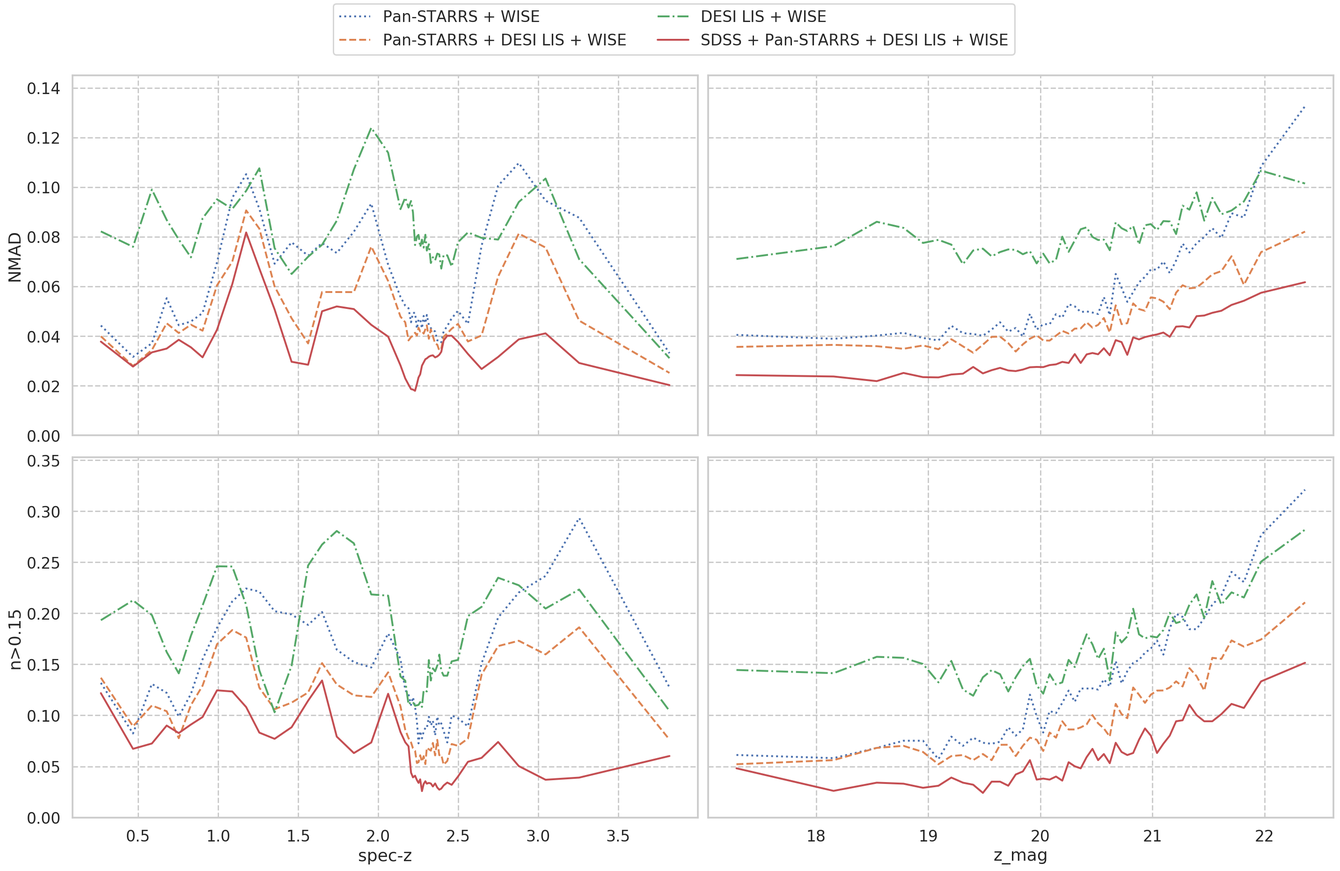
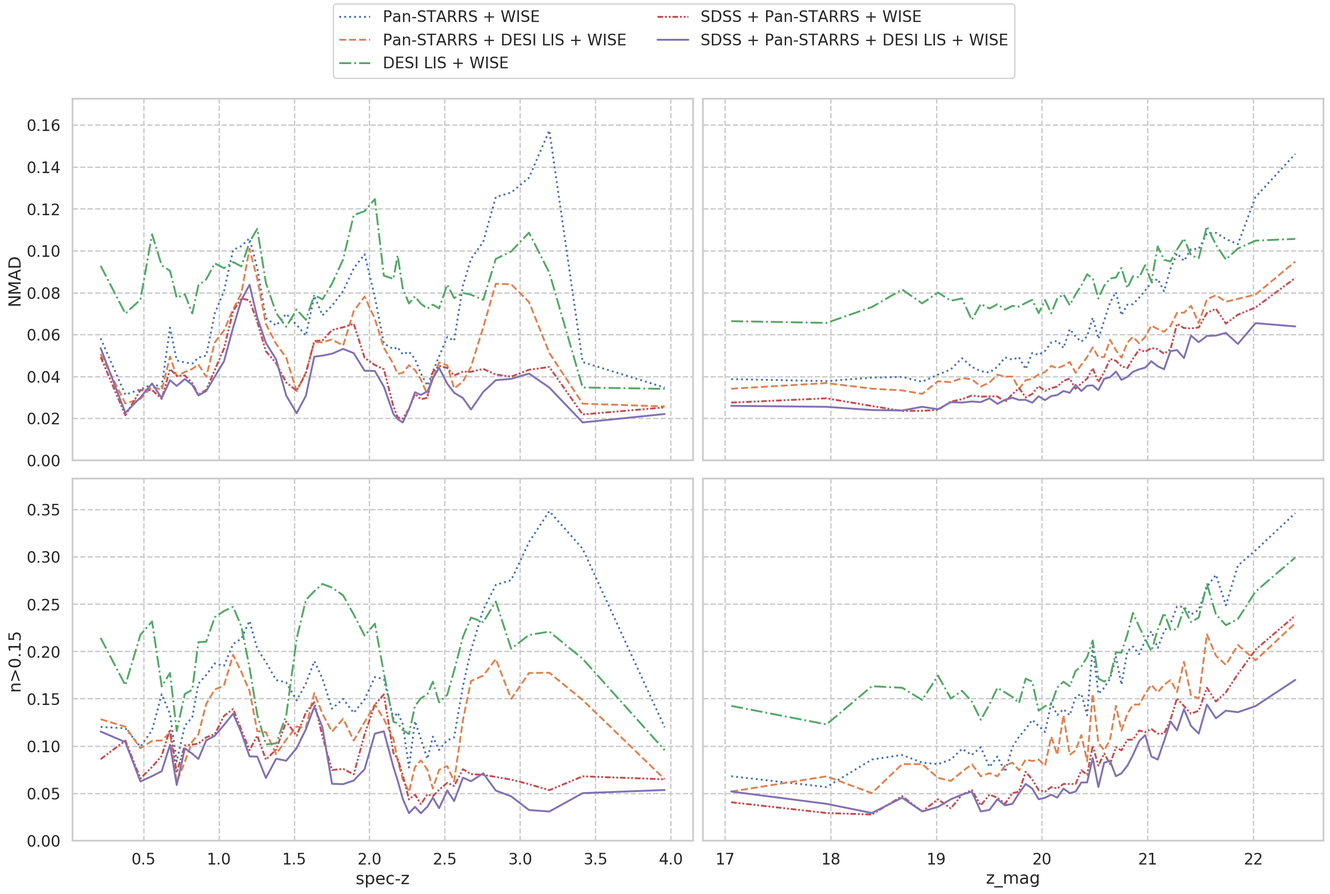
Update charts

diff --git a/main.tex b/main.tex
@@ -384,13 +384,6 @@ At the prediction stage we take into account uncertainties in photometric fluxes
 
 \subsection{Результаты на кросс-валидации (галактики)}
 
-\begin{figure*}
-    \centering
-    \includegraphics[width=0.9\linewidth]{images/scatterplots-cv2-gal.png}
-    \caption{Скаттерплот галактик на кросс-валидации}
-    \label{fig:my_label}
-\end{figure*}
-
 % \begin{figure*}
 %     \centering
 %     \includegraphics[width=0.9\linewidth]{images/metrics-gal_spec-z.png}
@@ -426,7 +419,7 @@ At the prediction stage we take into account uncertainties in photometric fluxes
 \begin{figure*}
     \centering
     \includegraphics[width=0.9\linewidth]{images/scatterplots-cv2-qso.png}
-    \caption{Скаттерплот квазаров на кросс-валидации}
+    \caption{Скаттерплот на кросс-валидации}
     \label{fig:my_label}
 \end{figure*}
 
@@ -492,23 +485,31 @@ At the prediction stage we take into account uncertainties in photometric fluxes
 \begin{figure*}
     \centering
     \includegraphics[width=0.9\linewidth]{images/scatterplots-stripe82x.png}
-    \caption{Диаграммы рассеяния прогнозов четырех моделей Photo-z (Pan-STARRS + WISE слева сверху, Pan-STARRS + DESI LIS + WISE справа сверху, DESI LIS + WISE слева посередине и SDSS + PanSTARRS + DESI LIS + WISE справа посередине, шаблонная модель (Ananna, 2017) слева снизу и нейросетевая модель (Brescia, 2019) справа снизу) на тестовой выборке рентгеновских объектов Stripe82X. По оси абсцисс -- значение spec-z, по оси ординат -- значение прогноза photo-z. Цветом и размером кружка показана мера достоверности прогноза zConf (PDZbest для Ananna).}
+    \caption{Диаграммы рассеяния прогнозов четырех моделей Photo-z (Pan-STARRS + WISE слева сверху, Pan-STARRS + DESI LIS + WISE справа сверху, DESI LIS + WISE слева снизу и SDSS + PanSTARRS + DESI LIS + WISE справа снизу) на тестовой выборке рентгеновских объектов Stripe82X. По оси абсцисс -- значение spec-z, по оси ординат -- значение прогноза photo-z. Цветом и размером кружка показана мера достоверности прогноза zConf.}
+    \label{fig:s82x}
+\end{figure*}
+
+\begin{figure*}
+    \centering
+    \includegraphics[width=0.9\linewidth]{images/scatterplots-stripe82x-sota.png}
+    \caption{Диаграммы рассеяния прогнозов для 35 модели + SOTA.}
     \label{fig:s82x}
 \end{figure*}
 
 \begin{table*}
 	\begin{tabular}{llllllllll}
             \hline
-            {} & \multicolumn{3}{l}{$All$ (2403 objects)} & \multicolumn{3}{l}{$z_{spec} < 0.5$ (570 objects)} & \multicolumn{3}{l}{$0.5 \leq z_{spec} < 1$ (635 objects)} \\
-            {} &               $NMAD$ &        $n>0.15$ &  $C_{68} - 0.68$ &                         $NMAD$ &        $n>0.15$ & $C_{68} - 0.68$ &                                $NMAD$ &        $n>0.15$ &  $C_{68} - 0.68$ \\
-            Model          &                      &                 &                  &                                &                 &                 &                                       &                 &                  \\
+            {} & \multicolumn{3}{l}{$All$ (2361 objects)} & \multicolumn{3}{l}{$z_{spec} < 0.5$ (563 objects)} & \multicolumn{3}{l}{$0.5 \leq z_{spec} < 1$ (629 objects)} \\
+            {} &               $NMAD$ &        $n>0.15$ & $C_{68} - 0.68$ &                         $NMAD$ &       $n>0.15$ &  $C_{68} - 0.68$ &                                $NMAD$ &        $n>0.15$ & $C_{68} - 0.68$ \\
+            Model          &                      &                 &                 &                                &                &                  &                                       &                 &                 \\
             \hline
-            PW             &                0.057 &           0.149 &            0.042 &                          0.037 &           0.091 &  \textbf{0.022} &                                 0.054 &           0.145 &             0.06 \\
-            PDW            &                0.046 &           0.112 &            0.076 &                          0.031 &           0.086 &           0.041 &                                 0.046 &           0.134 &            0.073 \\
-            DW             &                0.073 &           0.177 &  \textbf{-0.008} &                          0.047 &           0.112 &           0.032 &                                 0.084 &           0.206 &  \textbf{-0.025} \\
-            SPDW           &       \textbf{0.034} &  \textbf{0.089} &            0.104 &                  \textbf{0.03} &  \textbf{0.084} &           0.062 &                        \textbf{0.038} &  \textbf{0.106} &            0.122 \\
-            Template Model &                0.066 &           0.177 &           -0.342 &                          0.075 &           0.114 &          -0.499 &                                 0.062 &           0.217 &           -0.289 \\
-            NN Model       &                0.066 &            0.16 &           -0.258 &                          0.073 &           0.116 &          -0.396 &                                 0.065 &           0.203 &           -0.193 \\
+            PW             &                0.056 &           0.148 &  \textbf{0.001} &                          0.037 &          0.083 &  \textbf{-0.017} &                                 0.053 &           0.145 &   \textbf{0.02} \\
+            PDW            &                0.045 &           0.109 &           0.077 &                          0.031 &          0.083 &            0.045 &                                 0.046 &           0.129 &           0.075 \\
+            DW             &                0.073 &           0.174 &          -0.007 &                          0.046 &           0.11 &            0.034 &                                 0.084 &           0.202 &          -0.025 \\
+            SPW            &                 0.04 &           0.105 &            0.089 &                          0.032 &          0.083 &           0.043 &                                 0.043 &           0.111 &            0.109 \\
+            SPDW           &       \textbf{0.034} &  \textbf{0.089} &           0.105 &                 \textbf{0.029} &  \textbf{0.08} &            0.068 &                        \textbf{0.038} &  \textbf{0.103} &           0.123 \\
+            Template Model &                0.065 &           0.175 &          -0.343 &                          0.075 &          0.112 &           -0.499 &                                 0.061 &           0.215 &          -0.287 \\
+            NN Model       &                0.066 &           0.158 &          -0.259 &                          0.072 &          0.114 &           -0.396 &                                 0.064 &           0.199 &          -0.192 \\
             \hline
             \end{tabular}
             \caption{Точность моделей в зависимости от красного смещения (spec-z) на выборке Stripe82X для моделей Pan-STARRS + WISE (PW), Pan-STARRS + DESI LIS + WISE (PDW), DESI LIS + WISE (DW), SDSS + Pan-STARRS + DESI LIS + WISE (SPDW), шаблонной модели Ananna \ref{} (Template Model) и нейросетевой модели Brescia \ref{} (NN Model). Для каждого интервала даны метрики $NMAD$ \eqref{eq:nmad}, доля катастрофических выбросов $n_{.0.15}$ \eqref{eq:n015} и калибровка 68-процентных доверительных интервалов $C_{68} - 0.68$ \eqref{eq:c68}.}
@@ -517,16 +518,17 @@ At the prediction stage we take into account uncertainties in photometric fluxes
 \begin{table*}
 	\begin{tabular}{llllllllll}
             \hline
-            {} & \multicolumn{3}{l}{$1 \leq z_{spec} < 1.5$ (514 objects)} & \multicolumn{3}{l}{$1.5 \leq z_{spec} < 2$ (369 objects)} & \multicolumn{3}{l}{$2 \leq z_{spec}$ (315 objects)} \\
-            {} &                                $NMAD$ &        $n>0.15$ & $C_{68} - 0.68$ &                                $NMAD$ &        $n>0.15$ &  $C_{68} - 0.68$ &                          $NMAD$ &        $n>0.15$ &  $C_{68} - 0.68$ \\
-            Model          &                                       &                 &                 &                                       &                 &                  &                                 &                 &                  \\
+            {} & \multicolumn{3}{l}{$1 \leq z_{spec} < 1.5$ (507 objects)} & \multicolumn{3}{l}{$1.5 \leq z_{spec} < 2$ (363 objects)} & \multicolumn{3}{l}{$2 \leq z_{spec}$ (299 objects)} \\
+            {} &                                $NMAD$ &        $n>0.15$ &  $C_{68} - 0.68$ &                                $NMAD$ &        $n>0.15$ & $C_{68} - 0.68$ &                          $NMAD$ &        $n>0.15$ &  $C_{68} - 0.68$ \\
+            Model          &                                       &                 &                  &                                       &                 &                 &                                 &                 &                  \\
             \hline
-            PW             &                                 0.081 &           0.187 &           0.034 &                                 0.082 &           0.163 &            0.057 &                           0.057 &           0.184 &            0.037 \\
-            PDW            &                                 0.061 &           0.105 &           0.073 &                                 0.042 &           0.103 &            0.128 &                           0.046 &           0.133 &            0.088 \\
-            DW             &                                 0.083 &            0.14 &  \textbf{0.001} &                                 0.076 &           0.255 &  \textbf{-0.032} &                           0.088 &           0.203 &  \textbf{-0.032} \\
-            SPDW           &                        \textbf{0.048} &  \textbf{0.088} &           0.122 &                        \textbf{0.031} &  \textbf{0.065} &            0.144 &                  \textbf{0.029} &  \textbf{0.098} &            0.072 \\
-            Template Model &                                  0.07 &           0.206 &          -0.285 &                                 0.075 &            0.22 &           -0.279 &                           0.045 &           0.111 &           -0.331 \\
-            NN Model       &                                 0.069 &           0.167 &          -0.207 &                                 0.067 &           0.182 &           -0.192 &                           0.047 &           0.114 &           -0.302 \\
+            PW             &                                 0.079 &           0.174 &            0.018 &                                 0.076 &            0.16 &  \textbf{0.028} &                            0.07 &           0.217 &           -0.068 \\
+            PDW            &                                 0.061 &           0.105 &            0.071 &                                  0.04 &           0.099 &            0.13 &                           0.045 &           0.137 &            0.086 \\
+            DW             &                                 0.082 &           0.138 &  \textbf{-0.001} &                                 0.075 &           0.251 &           -0.03 &                           0.088 &           0.201 &  \textbf{-0.024} \\
+            SPW            &                                 0.053 &           0.108 &            0.097 &                                  0.04 &           0.096 &           0.163 &                           0.039 &            0.14 &            0.029 \\
+            SPDW           &                        \textbf{0.048} &  \textbf{0.089} &            0.119 &                        \textbf{0.031} &  \textbf{0.066} &           0.141 &                  \textbf{0.027} &  \textbf{0.104} &            0.073 \\
+            Template Model &                                  0.07 &           0.205 &           -0.287 &                                 0.074 &           0.218 &          -0.286 &                           0.046 &           0.107 &           -0.332 \\
+            NN Model       &                                 0.069 &           0.166 &           -0.209 &                                 0.066 &           0.182 &          -0.192 &                           0.047 &           0.117 &           -0.305 \\
             \hline
             \end{tabular}
             \caption{Точность моделей в зависимости от красного смещения (spec-z) на выборке Stripe82X для моделей Pan-STARRS + WISE (PW), Pan-STARRS + DESI LIS + WISE (PDW), DESI LIS + WISE (DW), SDSS + Pan-STARRS + DESI LIS + WISE (SPDW), шаблонной модели Ananna \ref{} (Template Model) и нейросетевой модели Brescia \ref{} (NN Model). Для каждого интервала даны метрики $NMAD$ \eqref{eq:nmad}, доля катастрофических выбросов $n_{.0.15}$ \eqref{eq:n015} и калибровка 68-процентных доверительных интервалов $C_{68} - 0.68$ \eqref{eq:c68}.}
@@ -538,37 +540,39 @@ At the prediction stage we take into account uncertainties in photometric fluxes
 \begin{table*}
 	\begin{tabular}{llllllllll}
             \hline
-            {} & \multicolumn{3}{l}{$z_{mag} < 19$ (522 objects)} & \multicolumn{3}{l}{$19 \leq z_{mag} < 20$ (608 objects)} & \multicolumn{3}{l}{$20 \leq z_{mag} < 20.5$ (403 objects)} \\
+            {} & \multicolumn{3}{l}{$z_{mag} < 19$ (520 objects)} & \multicolumn{3}{l}{$19 \leq z_{mag} < 20$ (604 objects)} & \multicolumn{3}{l}{$20 \leq z_{mag} < 20.5$ (403 objects)} \\
             {} &                       $NMAD$ &        $n>0.15$ & $C_{68} - 0.68$ &                               $NMAD$ &        $n>0.15$ & $C_{68} - 0.68$ &                                 $NMAD$ &        $n>0.15$ & $C_{68} - 0.68$ \\
             Model          &                              &                 &                 &                                      &                 &                 &                                        &                 &                 \\
             \hline
-            PW             &                        0.034 &           0.046 &           0.035 &                                0.043 &           0.062 &           0.088 &                                  0.064 &           0.119 &           0.035 \\
-            PDW            &                        0.027 &            0.04 &           0.044 &                                0.036 &           0.064 &           0.116 &                                  0.046 &           0.102 &           0.107 \\
-            DW             &                        0.039 &           0.084 &  \textbf{0.025} &                                0.068 &           0.112 &  \textbf{0.012} &                                  0.076 &           0.156 &  \textbf{0.012} \\
-            SPDW           &               \textbf{0.024} &  \textbf{0.029} &           0.081 &                       \textbf{0.028} &  \textbf{0.041} &           0.131 &                         \textbf{0.033} &  \textbf{0.074} &           0.107 \\
-            Template Model &                        0.061 &           0.092 &          -0.536 &                                0.062 &           0.145 &          -0.399 &                                  0.064 &           0.166 &           -0.38 \\
-            NN Model       &                        0.062 &           0.092 &          -0.464 &                                0.058 &           0.133 &          -0.308 &                                  0.061 &           0.144 &          -0.288 \\
+            PW             &                        0.037 &           0.046 &          -0.034 &                                0.042 &           0.073 &           0.063 &                                  0.064 &           0.134 &  \textbf{0.012} \\
+            PDW            &                        0.027 &            0.04 &           0.045 &                                0.036 &           0.065 &           0.116 &                                  0.046 &           0.102 &           0.107 \\
+            DW             &                        0.039 &           0.083 &  \textbf{0.024} &                                0.068 &           0.111 &  \textbf{0.015} &                                  0.076 &           0.156 &  \textbf{0.012} \\
+            SPW            &               \textbf{0.024} &           0.038 &           0.062 &                                0.031 &           0.045 &           0.115 &                                  0.041 &           0.087 &           0.104 \\
+            SPDW           &               \textbf{0.024} &  \textbf{0.029} &           0.082 &                       \textbf{0.028} &  \textbf{0.041} &           0.131 &                         \textbf{0.033} &  \textbf{0.074} &           0.107 \\
+            Template Model &                        0.061 &           0.092 &          -0.536 &                                0.062 &           0.144 &          -0.399 &                                  0.064 &           0.166 &           -0.38 \\
+            NN Model       &                        0.062 &           0.092 &          -0.463 &                                0.058 &           0.132 &          -0.309 &                                  0.061 &           0.144 &          -0.288 \\
             \hline
             \end{tabular}
-            \caption{Точность моделей в зависимости от величины в фильтре $z$, посчитанной по поткам DESI LIS с ипользованием формулы \eqref{eq:asinhmag}, на выборке Stripe82X для моделей Pan-STARRS + WISE (PW), Pan-STARRS + DESI LIS + WISE (PDW), DESI LIS + WISE (DW), SDSS + Pan-STARRS + DESI LIS + WISE (SPDW), шаблонной модели Ananna \ref{} (Template Model) и нейросетевой модели Brescia \ref{} (NN Model). Для каждого интервала даны метрики $NMAD$ \eqref{eq:nmad}, доля катастрофических выбросов $n_{.0.15}$ \eqref{eq:n015} и калибровка 68-процентных доверительных интервалов $C_{68} - 0.68$ \eqref{eq:c68}.}
+            \caption{Точность моделей в зависимости от величины в фильтре $z$ на выборке Stripe82X для моделей Pan-STARRS + WISE (PW), Pan-STARRS + DESI LIS + WISE (PDW), DESI LIS + WISE (DW), SDSS + Pan-STARRS + DESI LIS + WISE (SPDW), шаблонной модели Ananna \ref{} (Template Model) и нейросетевой модели Brescia \ref{} (NN Model). Для каждого интервала даны метрики $NMAD$ \eqref{eq:nmad}, доля катастрофических выбросов $n_{.0.15}$ \eqref{eq:n015} и калибровка 68-процентных доверительных интервалов $C_{68} - 0.68$ \eqref{eq:c68}.}
 \end{table*}
 
 \begin{table*}
 	\begin{tabular}{lllllll}
             \hline
-            {} & \multicolumn{3}{l}{$20.5 \leq z_{mag} < 21$ (358 objects)} & \multicolumn{3}{l}{$21 \leq z_{mag} < 23$ (510 objects)} \\
-            {} &                                 $NMAD$ &        $n>0.15$ &  $C_{68} - 0.68$ &                               $NMAD$ &       $n>0.15$ & $C_{68} - 0.68$ \\
-            Model          &                                        &                 &                  &                                      &                &                 \\
+            {} & \multicolumn{3}{l}{$20.5 \leq z_{mag} < 21$ (356 objects)} & \multicolumn{3}{l}{$21 \leq z_{mag} < 23$ (476 objects)} \\
+            {} &                                 $NMAD$ &        $n>0.15$ &  $C_{68} - 0.68$ &                               $NMAD$ &        $n>0.15$ & $C_{68} - 0.68$ \\
+            Model          &                                        &                 &                  &                                      &                 &                 \\
             \hline
-            PW             &                                  0.066 &           0.176 &            0.035 &                                 0.12 &          0.359 &  \textbf{0.008} \\
-            PDW            &                                  0.056 &            0.12 &            0.074 &                                0.081 &          0.243 &           0.036 \\
-            DW             &                                  0.088 &           0.218 &  \textbf{-0.012} &                                0.119 &          0.337 &           -0.08 \\
-            SPDW           &                         \textbf{0.044} &  \textbf{0.106} &            0.105 &                       \textbf{0.063} &  \textbf{0.21} &           0.095 \\
-            Template Model &                                  0.057 &           0.201 &           -0.219 &                                0.087 &          0.294 &          -0.135 \\
-            NN Model       &                                  0.062 &            0.17 &           -0.135 &                                 0.09 &          0.267 &          -0.055 \\
+            PW             &                                  0.077 &           0.202 &  \textbf{-0.009} &                                0.123 &           0.321 &          -0.041 \\
+            PDW            &                                  0.056 &           0.121 &            0.073 &                                0.082 &           0.239 &  \textbf{0.038} \\
+            DW             &                                  0.088 &           0.219 &           -0.011 &                                0.119 &           0.334 &          -0.081 \\
+            SPW            &                                  0.054 &           0.126 &            0.076 &                                0.082 &           0.252 &            0.085 \\
+            SPDW           &                         \textbf{0.044} &  \textbf{0.107} &            0.107 &                       \textbf{0.064} &  \textbf{0.214} &           0.095 \\
+            Template Model &                                  0.057 &           0.199 &           -0.217 &                                0.087 &           0.294 &           -0.13 \\
+            NN Model       &                                  0.062 &           0.169 &           -0.132 &                                0.089 &           0.269 &          -0.043 \\
             \hline
             \end{tabular}
-            \caption{Точность моделей в зависимости от величины в фильтре $z$, посчитанной по поткам DESI LIS с ипользованием формулы \eqref{eq:asinhmag}, на выборке Stripe82X для моделей Pan-STARRS + WISE (PW), Pan-STARRS + DESI LIS + WISE (PDW), DESI LIS + WISE (DW), SDSS + Pan-STARRS + DESI LIS + WISE (SPDW), шаблонной модели Ananna \ref{} (Template Model) и нейросетевой модели Brescia \ref{} (NN Model). Для каждого интервала даны метрики $NMAD$ \eqref{eq:nmad}, доля катастрофических выбросов $n_{.0.15}$ \eqref{eq:n015} и калибровка 68-процентных доверительных интервалов $C_{68} - 0.68$ \eqref{eq:c68}.}
+            \caption{Точность моделей в зависимости от величины в фильтре $z$ на выборке Stripe82X для моделей Pan-STARRS + WISE (PW), Pan-STARRS + DESI LIS + WISE (PDW), DESI LIS + WISE (DW), SDSS + Pan-STARRS + DESI LIS + WISE (SPDW), шаблонной модели Ananna \ref{} (Template Model) и нейросетевой модели Brescia \ref{} (NN Model). Для каждого интервала даны метрики $NMAD$ \eqref{eq:nmad}, доля катастрофических выбросов $n_{.0.15}$ \eqref{eq:n015} и калибровка 68-процентных доверительных интервалов $C_{68} - 0.68$ \eqref{eq:c68}.}
 \end{table*}
 
 
@@ -577,19 +581,20 @@ At the prediction stage we take into account uncertainties in photometric fluxes
 \begin{table*}
 	\begin{tabular}{llllllllll}
             \hline
-            {} & \multicolumn{3}{l}{$FSoft < 3e-15$ (55 objects)} & \multicolumn{3}{l}{$FSoft < 1e-14$ (983 objects)} & \multicolumn{3}{l}{$FSoft < 4e-14$ (2055 objects)} \\
-            {} &                       $NMAD$ &        $n>0.15$ & $C_{68} - 0.68$ &                        $NMAD$ &        $n>0.15$ & $C_{68} - 0.68$ &                         $NMAD$ &        $n>0.15$ &  $C_{68} - 0.68$ \\
-            Model          &                              &                 &                 &                               &                 &                 &                                &                 &                  \\
+            {} & \multicolumn{3}{l}{$FSoft < 1e-14$ (951 objects)} & \multicolumn{3}{l}{$FSoft < 4e-14$ (2016 objects)} & \multicolumn{3}{l}{$FSoft < 1.0$ (2223 objects)} \\
+            {} &                        $NMAD$ &        $n>0.15$ & $C_{68} - 0.68$ &                         $NMAD$ &        $n>0.15$ & $C_{68} - 0.68$ &                       $NMAD$ &        $n>0.15$ & $C_{68} - 0.68$ \\
+            Model          &                               &                 &                 &                                &                 &                 &                              &                 &                 \\
             \hline
-            PW             &                        0.056 &           0.182 &           0.029 &                         0.067 &           0.186 &           0.032 &                           0.06 &           0.154 &            0.044 \\
-            PDW            &                         0.05 &           0.164 &           0.084 &                          0.05 &           0.133 &            0.08 &                          0.047 &           0.115 &            0.079 \\
-            DW             &                        0.059 &             0.2 &  \textbf{0.011} &                         0.075 &           0.202 &  \textbf{0.002} &                          0.074 &           0.179 &  \textbf{-0.007} \\
-            SPDW           &               \textbf{0.034} &  \textbf{0.127} &           0.102 &                \textbf{0.038} &  \textbf{0.109} &           0.098 &                 \textbf{0.035} &  \textbf{0.093} &            0.108 \\
-            Template Model &                        0.059 &             0.2 &          -0.425 &                         0.061 &           0.165 &           -0.28 &                          0.064 &           0.172 &           -0.323 \\
-            NN Model       &                        0.074 &  \textbf{0.127} &          -0.244 &                         0.064 &           0.149 &          -0.199 &                          0.065 &           0.155 &           -0.243 \\
+            PW             &                         0.068 &           0.188 &          -0.009 &                          0.058 &           0.154 &  \textbf{0.003} &                        0.056 &           0.148 &  \textbf{0.002} \\
+            PDW            &                         0.049 &           0.127 &           0.084 &                          0.047 &           0.113 &            0.08 &                        0.045 &           0.108 &            0.08 \\
+            DW             &                         0.073 &           0.196 &  \textbf{0.005} &                          0.073 &           0.176 &          -0.006 &                        0.073 &           0.172 &          -0.011 \\
+            SPW            &                         0.048 &           0.138 &           0.079 &                          0.042 &            0.11 &            0.091 &                         0.04 &           0.105 &            0.092 \\
+            SPDW           &                \textbf{0.038} &  \textbf{0.107} &             0.1 &                 \textbf{0.035} &  \textbf{0.092} &           0.109 &               \textbf{0.033} &  \textbf{0.088} &            0.11 \\
+            Template Model &                         0.061 &           0.161 &          -0.284 &                          0.064 &            0.17 &          -0.324 &                        0.064 &           0.175 &          -0.339 \\
+            NN Model       &                         0.063 &           0.145 &          -0.199 &                          0.065 &           0.153 &          -0.243 &                        0.065 &           0.159 &          -0.256 \\
             \hline
             \end{tabular}
-            \caption{Точность моделей в зависимости рентгеновского потока $FSoft$ на выборке Stripe82X для моделей Pan-STARRS + WISE (PW), Pan-STARRS + DESI LIS + WISE (PDW), DESI LIS + WISE (DW), SDSS + Pan-STARRS + DESI LIS + WISE (SPDW), шаблонной модели Ananna \ref{} (Template Model) и нейросетевой модели Brescia \ref{} (NN Model). Интервалы по рентгеновскому потоку соответствуют глубине (сколько летнего) обзора eRosita. Для каждого интервала даны метрики $NMAD$ \eqref{eq:nmad}, доля катастрофических выбросов $n_{.0.15}$ \eqref{eq:n015} и калибровка 68-процентных доверительных интервалов $C_{68} - 0.68$ \eqref{eq:c68}.}
+            \caption{Точность моделей в зависимости от рентгеновского потока (FSoft) на выборке Stripe82X для моделей Pan-STARRS + WISE (PW), Pan-STARRS + DESI LIS + WISE (PDW), DESI LIS + WISE (DW), SDSS + Pan-STARRS + DESI LIS + WISE (SPDW), шаблонной модели Ananna \ref{} (Template Model) и нейросетевой модели Brescia \ref{} (NN Model). Для каждого интервала даны метрики $NMAD$ \eqref{eq:nmad}, доля катастрофических выбросов $n_{.0.15}$ \eqref{eq:n015} и калибровка 68-процентных доверительных интервалов $C_{68} - 0.68$ \eqref{eq:c68}.}
 \end{table*}
 
 \subsection{PDZ reliability}
